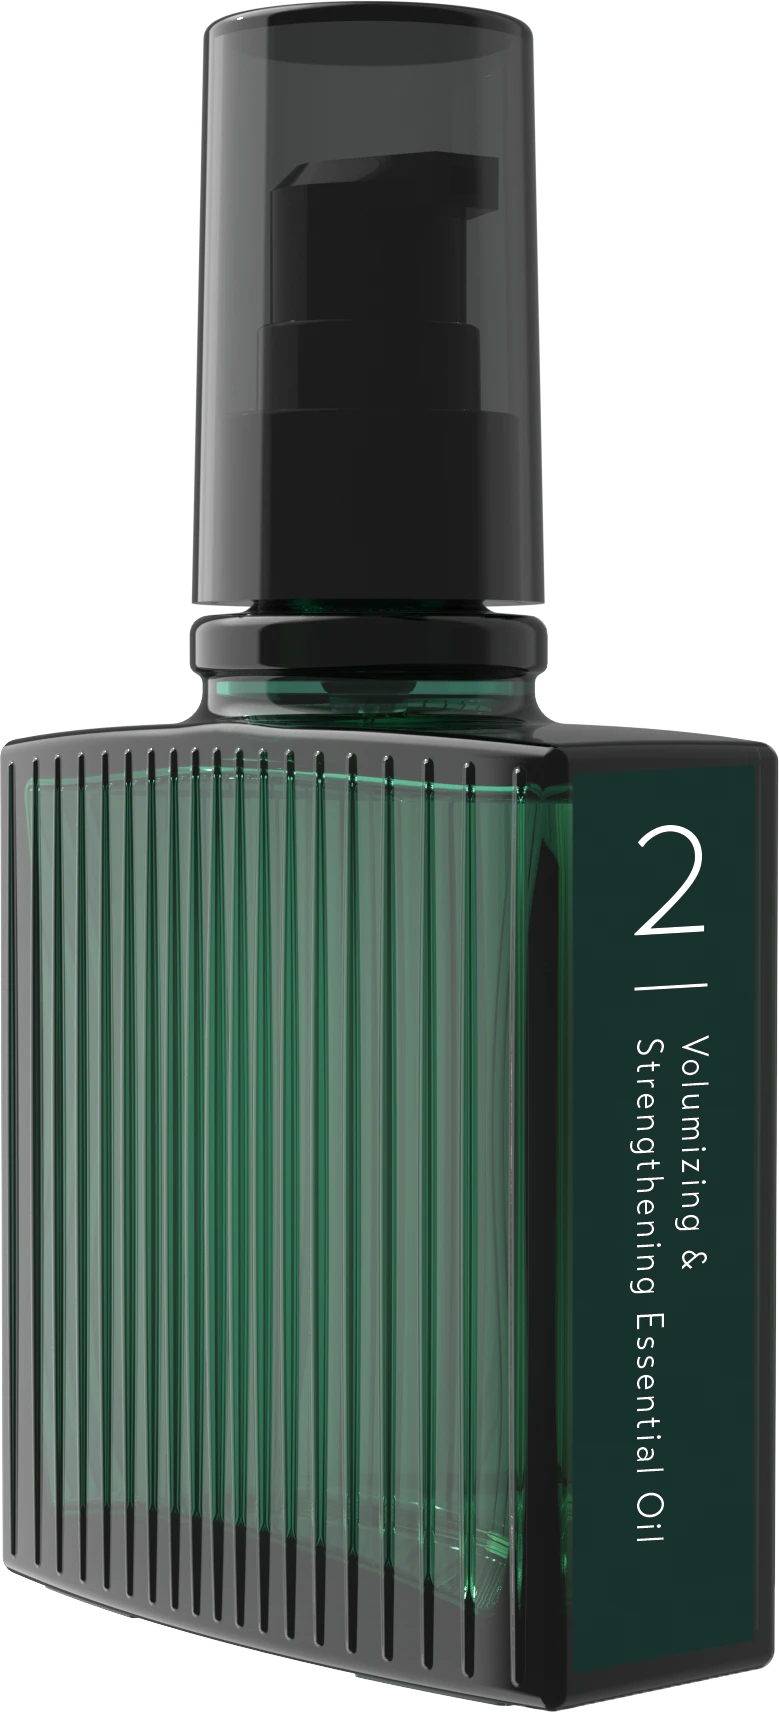
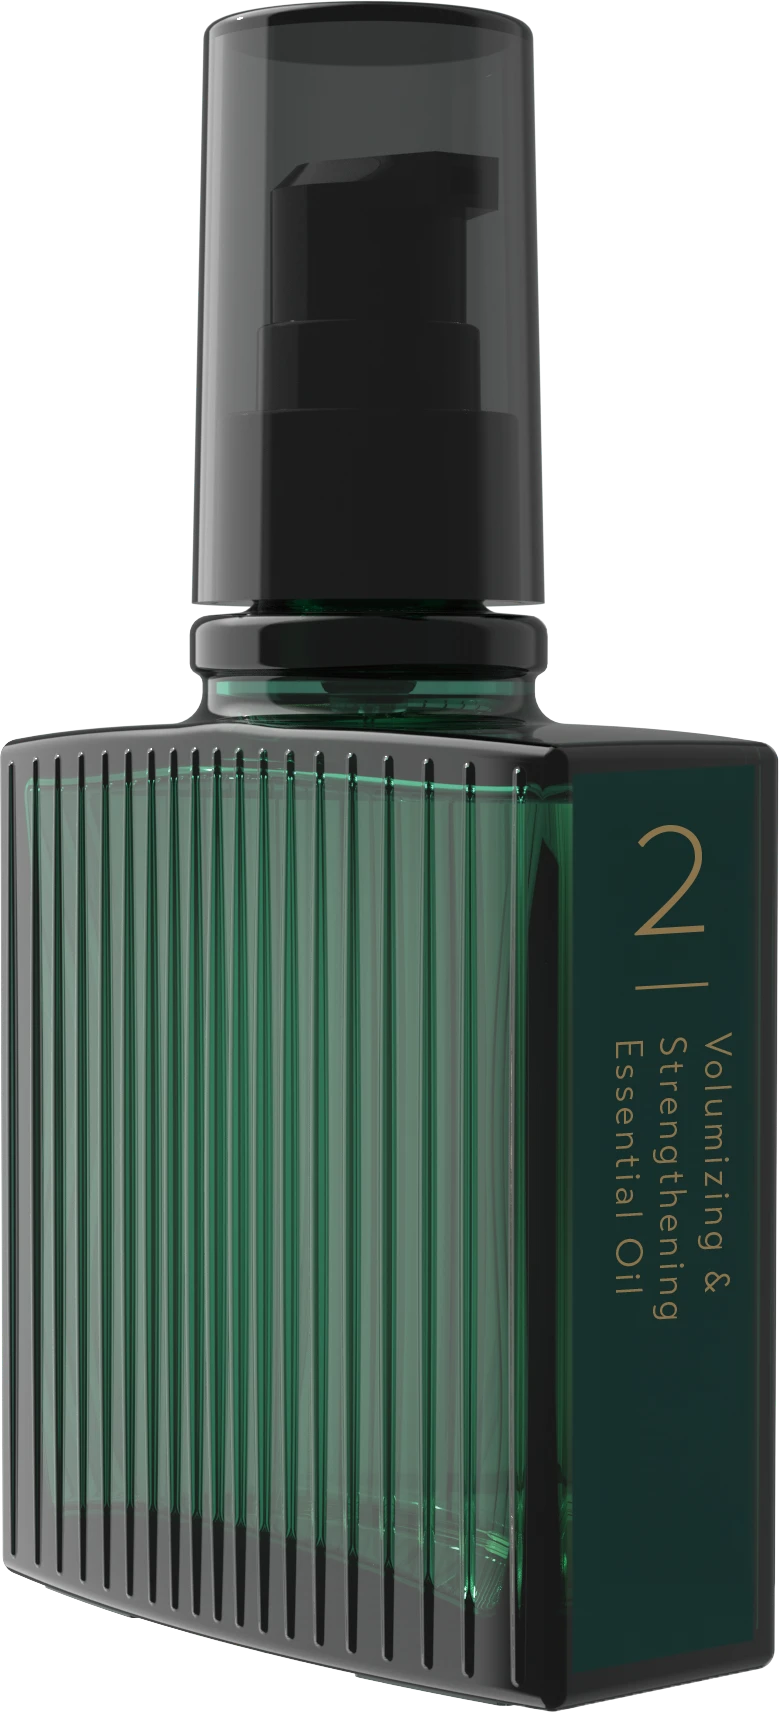
fix: 70mL 精華油只保留綠金包裝版，品名拿掉「(升級版)」
- 豐盈彈韌精華油、染燙護色精華油：刪除白字舊版 70mL 圖與資料；綠金（升級版）圖改名為 ...70mL.webp
- products.js／product-copy.js／i18n.js 的升級版名稱去掉「(升級版)」，售價 1500 與升級版文案保留（D-34）
- 共用文案（10mL／750mL）刪掉屬於舊 70mL 的售價行；names-en.js 刪除重複的升級版英文名
- index.html 四個資料檔版本號更新；商品 81→79
- 驗證：dm-add-product 檢查全過，預覽頁選單各只剩一個 70mL、DM 顯示綠金圖與 1,500 元
- 變更紀錄新增本步條目

Changed region(s): [[0.7702, 0.5879, 0.9243, 0.8973], [0.8318, 0.4641, 0.9243, 0.5569]]

diff --git a/Coding/i18n.js b/Coding/i18n.js
@@ -56,6 +56,6 @@ window.PRODUCT_I18N = {
   "薰衣草深層洗髮精": { "name_en": "Lavender Deep Cleansing Shampoo", "name_pl": "Szampon głęboko oczyszczający Lawenda", "intro_en": "Deep Cleansing", "intro_pl": "Głębokie oczyszczanie", "usage_en": "Deeply cleanses residue from the scalp and hair before color or perm treatments.", "usage_pl": "Dogłębnie oczyszcza skórę głowy i włosy z pozostałości przed zabiegami farbowania lub trwałej ondulacji." },
   "木蘭保濕護髮素": { "name_en": "Magnolia Moisturizing Conditioner", "name_pl": "Odżywka nawilżająca Magnolia", "intro_en": "Moisturizing & Hydrating", "intro_pl": "Nawilżenie i nawodnienie", "usage_en": "Conditions dry, damaged hair with moisture and hydration.", "usage_pl": "Pielęgnuje suche, zniszczone włosy, nawilżając je i nawadniając." },
   "薔薇護色護髮素": { "name_en": "Rose Color Protection Conditioner", "name_pl": "Odżywka Róża – ochrona koloru", "intro_en": "Rich Nourishment & Shine", "intro_pl": "Bogate odżywienie i blask", "usage_en": "Nourishes and repairs hair damaged by coloring and perming.", "usage_pl": "Odżywia i regeneruje włosy zniszczone farbowaniem i trwałą ondulacją." },
-  "豐盈彈韌精華油70mL(升級版)": { "name_en": "Volumizing & Strengthening Essential Oil 70mL", "name_pl": "Olejek do włosów Objętość i sprężystość 70 mL", "intro_en": "Fresh and airy, full of bounce", "intro_pl": "Świeżość i lekkość, pełnia sprężystości", "usage_en": "O'right | PRO's curated precious botanical essence rapidly repairs and smooths the cuticle, replenishing the intercellular substances lost from the hair. Rich in essential fatty acids — Omega 3 and Omega 6 — this lightweight oil care leaves the hair fibres soft and smooth, adds dewy radiance inside and out, and prevents airborne moisture from entering the hair shaft to reduce frizz. It also strengthens the hair's resistance to changes in its keratin structure, restoring fullness for revitalized, vibrant hair.", "usage_pl": "Wyselekcjonowana, cenna esencja roślinna O'right | PRO błyskawicznie regeneruje i wygładza łuski włosa, uzupełniając substancje międzykomórkowe utracone z włosów. Bogata w niezbędne kwasy tłuszczowe — Omega 3 i Omega 6 — ta lekka pielęgnacja olejkowa sprawia, że włókna włosa stają się miękkie i gładkie, dodaje włosom wilgotnego blasku wewnątrz i na zewnątrz oraz zapobiega wnikaniu wilgoci z powietrza w łodygę włosa, ograniczając puszenie. Wzmacnia także odporność włosów na zmiany struktury keratyny, przywracając objętość i rewitalizując włosy pełne witalności." },
-  "染燙護色精華油70mL(升級版)": { "name_en": "Color & Perm Care Essential Oil 70mL", "name_pl": "Olejek do włosów Ochrona koloru 70 mL", "intro_en": "Nourishing color care, smooth radiance", "intro_pl": "Odżywcza ochrona koloru, gładki blask", "usage_en": "O'right | PRO infuses a golden ratio of high-performance herbal botanical polyphenols.\nFrom the outside it strengthens and fills the gaps between cuticle layers; from within it conditions and deeply moisturizes the hair fibres.\nIt helps reinforce the structure and resilience of healthy hair's F-Layer lipid layer, boosting hair protection and enhancing color retention.\nPerfectly resolving post-color and post-perm dryness, it sustains radiant shine and a supple, smooth, healthy condition.", "usage_pl": "O'right | PRO wprowadza złotą proporcję wysokowydajnych roślinnych polifenoli.\nOd zewnątrz wzmacnia i wypełnia przestrzenie między warstwami łuski; od wewnątrz pielęgnuje i dogłębnie nawilża włókna włosa.\nPomaga wzmocnić strukturę i wytrzymałość warstwy lipidowej F-Layer zdrowych włosów, zwiększając ochronę i trwałość koloru.\nDoskonale rozwiązuje suchość po farbowaniu i trwałej ondulacji, utrzymując olśniewający blask oraz sprężystą, gładką i zdrową kondycję." }
+  "豐盈彈韌精華油70mL": { "name_en": "Volumizing & Strengthening Essential Oil 70mL", "name_pl": "Olejek do włosów Objętość i sprężystość 70 mL", "intro_en": "Fresh and airy, full of bounce", "intro_pl": "Świeżość i lekkość, pełnia sprężystości", "usage_en": "O'right | PRO's curated precious botanical essence rapidly repairs and smooths the cuticle, replenishing the intercellular substances lost from the hair. Rich in essential fatty acids — Omega 3 and Omega 6 — this lightweight oil care leaves the hair fibres soft and smooth, adds dewy radiance inside and out, and prevents airborne moisture from entering the hair shaft to reduce frizz. It also strengthens the hair's resistance to changes in its keratin structure, restoring fullness for revitalized, vibrant hair.", "usage_pl": "Wyselekcjonowana, cenna esencja roślinna O'right | PRO błyskawicznie regeneruje i wygładza łuski włosa, uzupełniając substancje międzykomórkowe utracone z włosów. Bogata w niezbędne kwasy tłuszczowe — Omega 3 i Omega 6 — ta lekka pielęgnacja olejkowa sprawia, że włókna włosa stają się miękkie i gładkie, dodaje włosom wilgotnego blasku wewnątrz i na zewnątrz oraz zapobiega wnikaniu wilgoci z powietrza w łodygę włosa, ograniczając puszenie. Wzmacnia także odporność włosów na zmiany struktury keratyny, przywracając objętość i rewitalizując włosy pełne witalności." },
+  "染燙護色精華油70mL": { "name_en": "Color & Perm Care Essential Oil 70mL", "name_pl": "Olejek do włosów Ochrona koloru 70 mL", "intro_en": "Nourishing color care, smooth radiance", "intro_pl": "Odżywcza ochrona koloru, gładki blask", "usage_en": "O'right | PRO infuses a golden ratio of high-performance herbal botanical polyphenols.\nFrom the outside it strengthens and fills the gaps between cuticle layers; from within it conditions and deeply moisturizes the hair fibres.\nIt helps reinforce the structure and resilience of healthy hair's F-Layer lipid layer, boosting hair protection and enhancing color retention.\nPerfectly resolving post-color and post-perm dryness, it sustains radiant shine and a supple, smooth, healthy condition.", "usage_pl": "O'right | PRO wprowadza złotą proporcję wysokowydajnych roślinnych polifenoli.\nOd zewnątrz wzmacnia i wypełnia przestrzenie między warstwami łuski; od wewnątrz pielęgnuje i dogłębnie nawilża włókna włosa.\nPomaga wzmocnić strukturę i wytrzymałość warstwy lipidowej F-Layer zdrowych włosów, zwiększając ochronę i trwałość koloru.\nDoskonale rozwiązuje suchość po farbowaniu i trwałej ondulacji, utrzymując olśniewający blask oraz sprężystą, gładką i zdrową kondycję." }
 };

diff --git a/Coding/product-copy.js b/Coding/product-copy.js
@@ -65,8 +65,8 @@ window.PRODUCT_COPY = {
   "豐盈彈韌精華油": {
     "intro": "清爽蓬鬆 豐盈彈潤",
     "usage": "輕盈質地，賦予髮絲彈力支撐，提供秀髮水潤光澤感，重現蓬鬆柔順髮質。",
-    "price": "70mL/TWD1300\n10mL/TWD300\n750mL/TWD9600",
-    "orig": "1300",
+    "price": "10mL/TWD300\n750mL/TWD9600",
+    "orig": "300",
     "series": "PRO"
   },
   "結構修護洗髮露": {
@@ -107,8 +107,8 @@ window.PRODUCT_COPY = {
   "染燙護色精華油": {
     "intro": "潤澤護色 柔順煥彩",
     "usage": "針對漂染燙受損髮專屬設計，修護，隔絕高溫保護髮絲。",
-    "price": "70mL/TWD1300\n10mL/TWD300\n750mL/TWD9600",
-    "orig": "1300",
+    "price": "10mL/TWD300\n750mL/TWD9600",
+    "orig": "300",
     "series": "PRO"
   },
   "濃縮咖啡因養髮洗髮露": {
@@ -265,14 +265,14 @@ window.PRODUCT_COPY = {
     "orig": "1200",
     "series": "PRO"
   },
-  "豐盈彈韌精華油70mL(升級版)": {
+  "豐盈彈韌精華油70mL": {
     "intro": "清爽蓬鬆 豐盈彈潤",
     "usage": "O'right｜PRO 精選珍貴植萃精華，快速修護撫平毛鱗層，補充毛髮流失的間充物質，富含必需脂肪酸 – Omega 3、 Omega 6 的清爽油質保養，使髮絲纖維柔軟順滑，內外增添髮絲水潤光澤，並防止空氣水分子進入毛幹，降低頭髮毛躁。同時增強髮絲預防角蛋白結構的改變，恢復豐盈感打造煥髮活力",
     "price": "70mL/TWD1500",
     "orig": "1500",
     "series": "PRO"
   },
-  "染燙護色精華油70mL(升級版)": {
+  "染燙護色精華油70mL": {
     "intro": "潤澤護色 柔順煥彩",
     "usage": "O'right｜PRO 黃金比例注入高效草本植萃天然多酚，\n從外強化填補表皮層間隙，至內調理髮絲纖維深層滋潤。\n有助於增強健康毛髮F-Layer脂質層結構和韌性，提升頭髮防護，增強髮絲護色力。\n完美解決染燙乾燥，延續亮麗光澤、彈潤柔順的健康狀態。",
     "price": "70mL/TWD1500",

diff --git a/Coding/products.js b/Coding/products.js
@@ -155,17 +155,9 @@ window.PRODUCTS = [
     "id": "染燙護色精華油70mL",
     "name": "染燙護色精華油70mL",
     "series": "PRO",
-    "copyKey": "染燙護色精華油",
-    "orig": "1300",
-    "img": "../產品圖片/PRO系列/染燙護色精華油70mL.webp?v=1787799333973"
-  },
-  {
-    "id": "染燙護色精華油70mL(升級版)",
-    "name": "染燙護色精華油70mL(升級版)",
-    "series": "PRO",
-    "copyKey": "染燙護色精華油70mL(升級版)",
+    "copyKey": "染燙護色精華油70mL",
     "orig": "1500",
-    "img": "../產品圖片/PRO系列/染燙護色精華油70mL(升級版).webp?v=1793361746949"
+    "img": "../產品圖片/PRO系列/染燙護色精華油70mL.webp?v=1793361746949"
   },
   {
     "id": "染燙護色精華油750mL",
@@ -347,17 +339,9 @@ window.PRODUCTS = [
     "id": "豐盈彈韌精華油70mL",
     "name": "豐盈彈韌精華油70mL",
     "series": "PRO",
-    "copyKey": "豐盈彈韌精華油",
-    "orig": "1300",
-    "img": "../產品圖片/PRO系列/豐盈彈韌精華油70mL.webp?v=1787799334009"
-  },
-  {
-    "id": "豐盈彈韌精華油70mL(升級版)",
-    "name": "豐盈彈韌精華油70mL(升級版)",
-    "series": "PRO",
-    "copyKey": "豐盈彈韌精華油70mL(升級版)",
+    "copyKey": "豐盈彈韌精華油70mL",
     "orig": "1500",
-    "img": "../產品圖片/PRO系列/豐盈彈韌精華油70mL(升級版).webp?v=1793361746944"
+    "img": "../產品圖片/PRO系列/豐盈彈韌精華油70mL.webp?v=1793361746944"
   },
   {
     "id": "豐盈彈韌精華油750mL",

diff --git a/Coding/names-en.js b/Coding/names-en.js
@@ -18,7 +18,6 @@ window.PRODUCT_NAMES_EN = {
   "染燙護色洗髮露750mL": "COLOR & PERM CARE SHAMPOO RE REFILL BOTTLE 750ML",
   "染燙護色精華油10mL": "COLOR & PERM CARE ESSENTIAL OIL 10ML",
   "染燙護色精華油70mL": "COLOR & PERM CARE ESSENTIAL OIL 70ML",
-  "染燙護色精華油70mL(升級版)": "COLOR & PERM CARE ESSENTIAL OIL 70ML",
   "染燙護色精華油750mL": "COLOR & PERM CARE ESSENTIAL OIL 750ML",
   "染燙護色護髮素250mL": "COLOR & PERM CARE CONDITIONER 250ML",
   "強健頭皮洗髮露260mL": "SCALP & HAIR REINFORCING SHAMPOO 260ML",
@@ -42,7 +41,6 @@ window.PRODUCT_NAMES_EN = {
   "豐盈彈韌洗髮露750mL": "VOLUMIZING & STRENGTHENING SHAMPOO RE REFILL BOTTLE 750ML",
   "豐盈彈韌精華油10mL": "VOLUMIZING & STRENGTHENING ESSENTIAL OIL 10ML",
   "豐盈彈韌精華油70mL": "VOLUMIZING & STRENGTHENING ESSENTIAL OIL 70ML",
-  "豐盈彈韌精華油70mL(升級版)": "VOLUMIZING & STRENGTHENING ESSENTIAL OIL 70ML",
   "豐盈彈韌精華油750mL": "VOLUMIZING & STRENGTHENING ESSENTIAL OIL 750ML",
   "豐盈彈韌調理精華220mL": "VOLUMIZING & STRENGTHENING SERUM 220ML",
   "豐盈彈韌護髮素250mL": "VOLUMIZING & STRENGTHENING MOISTURIZING CONDITIONER 250ML",

diff --git a/Coding/index.html b/Coding/index.html
@@ -9,10 +9,10 @@
 <link rel="preconnect" href="https://fonts.gstatic.com" crossorigin>
 <link rel="stylesheet" href="https://fonts.googleapis.com/css2?family=Jost:wght@200&text=0123456789%24.%2C&display=swap">
 <!-- 匯出用函式庫（html2canvas / jsPDF）改為匯出時才載入，加快初始載入：見 ensureExportLibs() -->
-<script src="products.js?v=1794748866534"></script>
-<script src="product-copy.js?v=1794748866534"></script>
-<script src="i18n.js?v=1794748866534"></script>
-<script src="names-en.js?v=1794748866534"></script>
+<script src="products.js?v=1794749132925"></script>
+<script src="product-copy.js?v=1794749132925"></script>
+<script src="i18n.js?v=1794749132925"></script>
+<script src="names-en.js?v=1794749132925"></script>
 <style>
 /* ── Reset ── */
 *, *::before, *::after { box-sizing: border-box; margin: 0; padding: 0; }

diff --git a/docs/變更紀錄.md b/docs/變更紀錄.md
@@ -25,6 +25,7 @@ timeline
 
 ## 2026-11
 
+- **11/15｜70mL 精華油只留綠金包裝**：豐盈彈韌精華油、染燙護色精華油的 70mL 各只保留綠金包裝版（售價 1500、升級版文案），品名拿掉「(升級版)」，白字舊版刪除；商品從 81 個變成 79 個。
 - **11/15｜極萃鎏金兩款改品名**：「印加果｜極萃鎏金養護高訂喚活套盒」「海洋藤竹｜極萃鎏金養護高訂喚活套盒」改為「…高訂喚活護髮」，商品圖檔名、資料檔與波蘭文品名同步更新。
 - **11/15｜流程版面新增標題文字**：「流程」底圖也能輸入標題，樣式和直式標題相同，顯示在頁首下方、步驟上方；預設空白，沒輸入就不顯示，版面和原本一樣。
 - **11/15｜專案地圖改成新的上新品流程**：檔案表刪掉產品文案和兩個工具、補上四個 docs skill；資料流程圖改成「使用者提供資料 → Claude 依 skill 修改資料檔 → 編輯器」；架構圖 1 拿掉表格與工具的方框。
